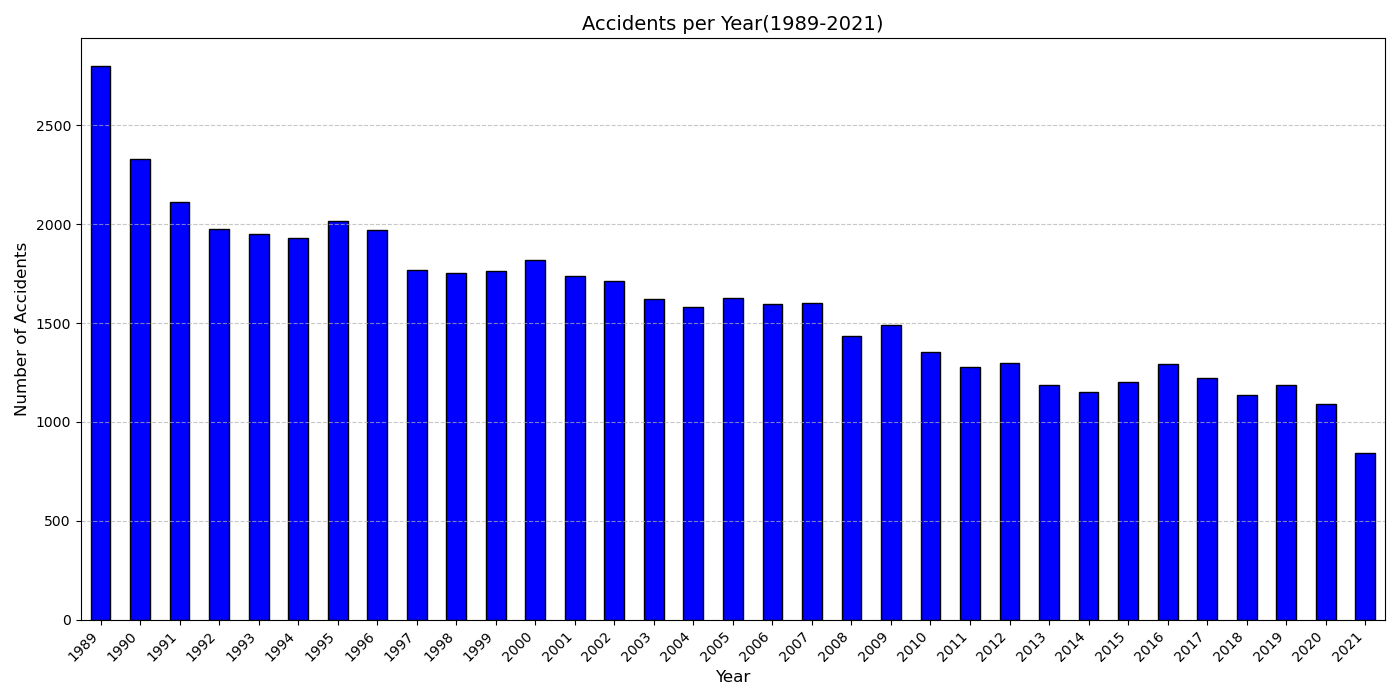
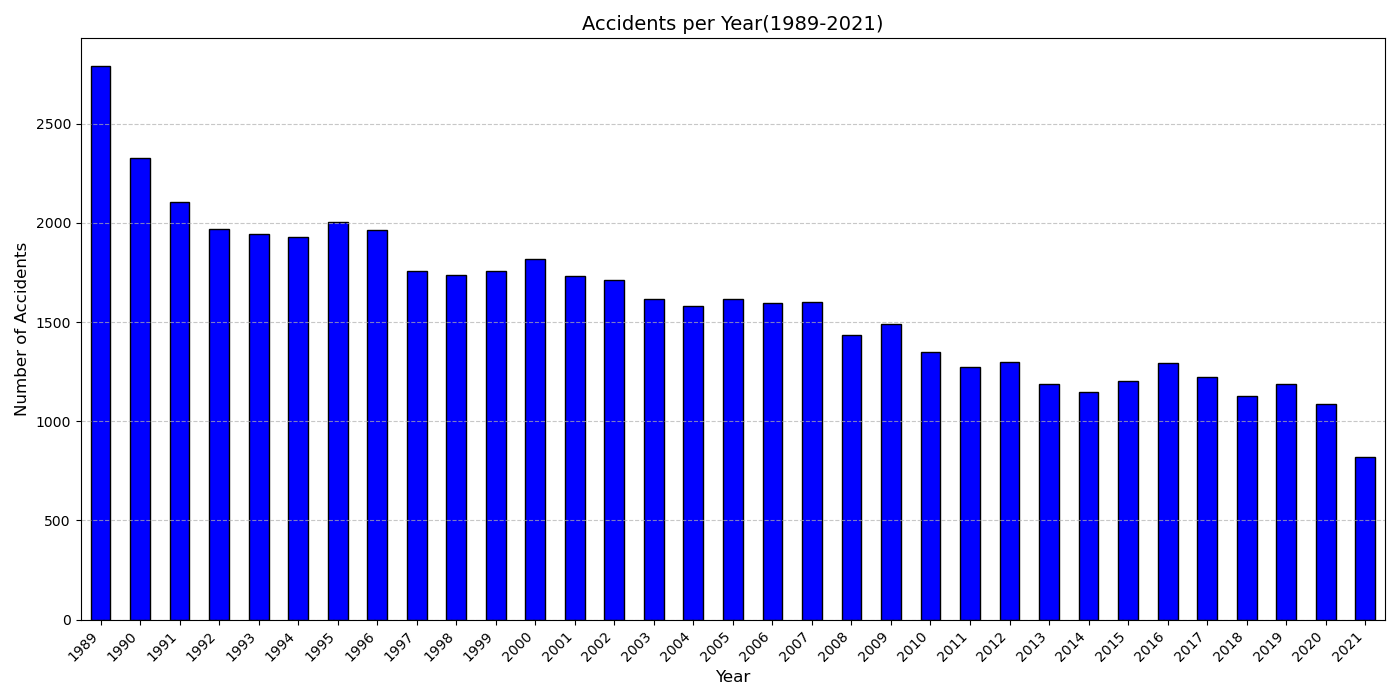
continua

diff --git a/data_analyses/crash_data/crash.py b/data_analyses/crash_data/crash.py
@@ -37,6 +37,19 @@ plt.title("Descriptive Statistics of Numerical Columns", fontsize=16)
 plt.savefig(images_path + 'numerical_columns_description.png')
 plt.close()
 
+null_summary = pd.DataFrame({
+    'Coluna': df.columns,
+    'Quantidade': df.isnull().sum(axis=0).values,
+    'Porcentagem': (df.isnull().mean() * 100).round(2).values
+})
+null_summary.to_markdown(buf= images_path + 'sumario_nulos.md',index=False)
+
+#Lidando com os valores nulos
+df = df.dropna(subset = ['Time','Bus Involvement','Articulated Truck Involvement','Gender','Age Group'])
+#preenchendo os valores nulos com a media
+#print(df['Heavy Rigid Truck Involvement'].mode())
+df['Heavy Rigid Truck Involvement'] = df['Heavy Rigid Truck Involvement'].fillna('No')
+#print(df['Heavy Rigid Truck Involvement'].isnull().sum())
 
 # Verifica os anos existentes no DataFrame
 counts = df['Year'].value_counts().sort_index()
@@ -53,7 +66,6 @@ plt.grid(axis='y', linestyle='--', alpha=0.7)
 plt.tight_layout()  # Ajustar layout
 plt.savefig(images_path +'accidents_per_year.png')
 plt.close()
-
 
 male = df[df['Gender'] == 'Male']
 female = df[df['Gender'] == 'Female']

diff --git a/data_analyses/crash_data/data_visualization/sumario_nulos.md b/data_analyses/crash_data/data_visualization/sumario_nulos.md
@@ -1,0 +1,25 @@
+| Coluna                        |   Quantidade |   Porcentagem |
+|:------------------------------|-------------:|--------------:|
+| Crash ID                      |            0 |          0    |
+| State                         |            0 |          0    |
+| Month                         |            0 |          0    |
+| Year                          |            0 |          0    |
+| Dayweek                       |            0 |          0    |
+| Time                          |           40 |          0.08 |
+| Crash Type                    |            0 |          0    |
+| Bus Involvement               |           22 |          0.04 |
+| Heavy Rigid Truck Involvement |        20515 |         38.82 |
+| Articulated Truck Involvement |           22 |          0.04 |
+| Speed Limit                   |          702 |          1.33 |
+| Road User                     |            0 |          0    |
+| Gender                        |           27 |          0.05 |
+| Age                           |            0 |          0    |
+| National Remoteness Areas     |        45965 |         86.98 |
+| SA4 Name 2016                 |        45951 |         86.96 |
+| National LGA Name 2017        |        45950 |         86.96 |
+| National Road Type            |        45966 |         86.99 |
+| Christmas Period              |            0 |          0    |
+| Easter Period                 |            0 |          0    |
+| Age Group                     |           90 |          0.17 |
+| Day of week                   |            0 |          0    |
+| Time of day                   |            0 |          0    |
